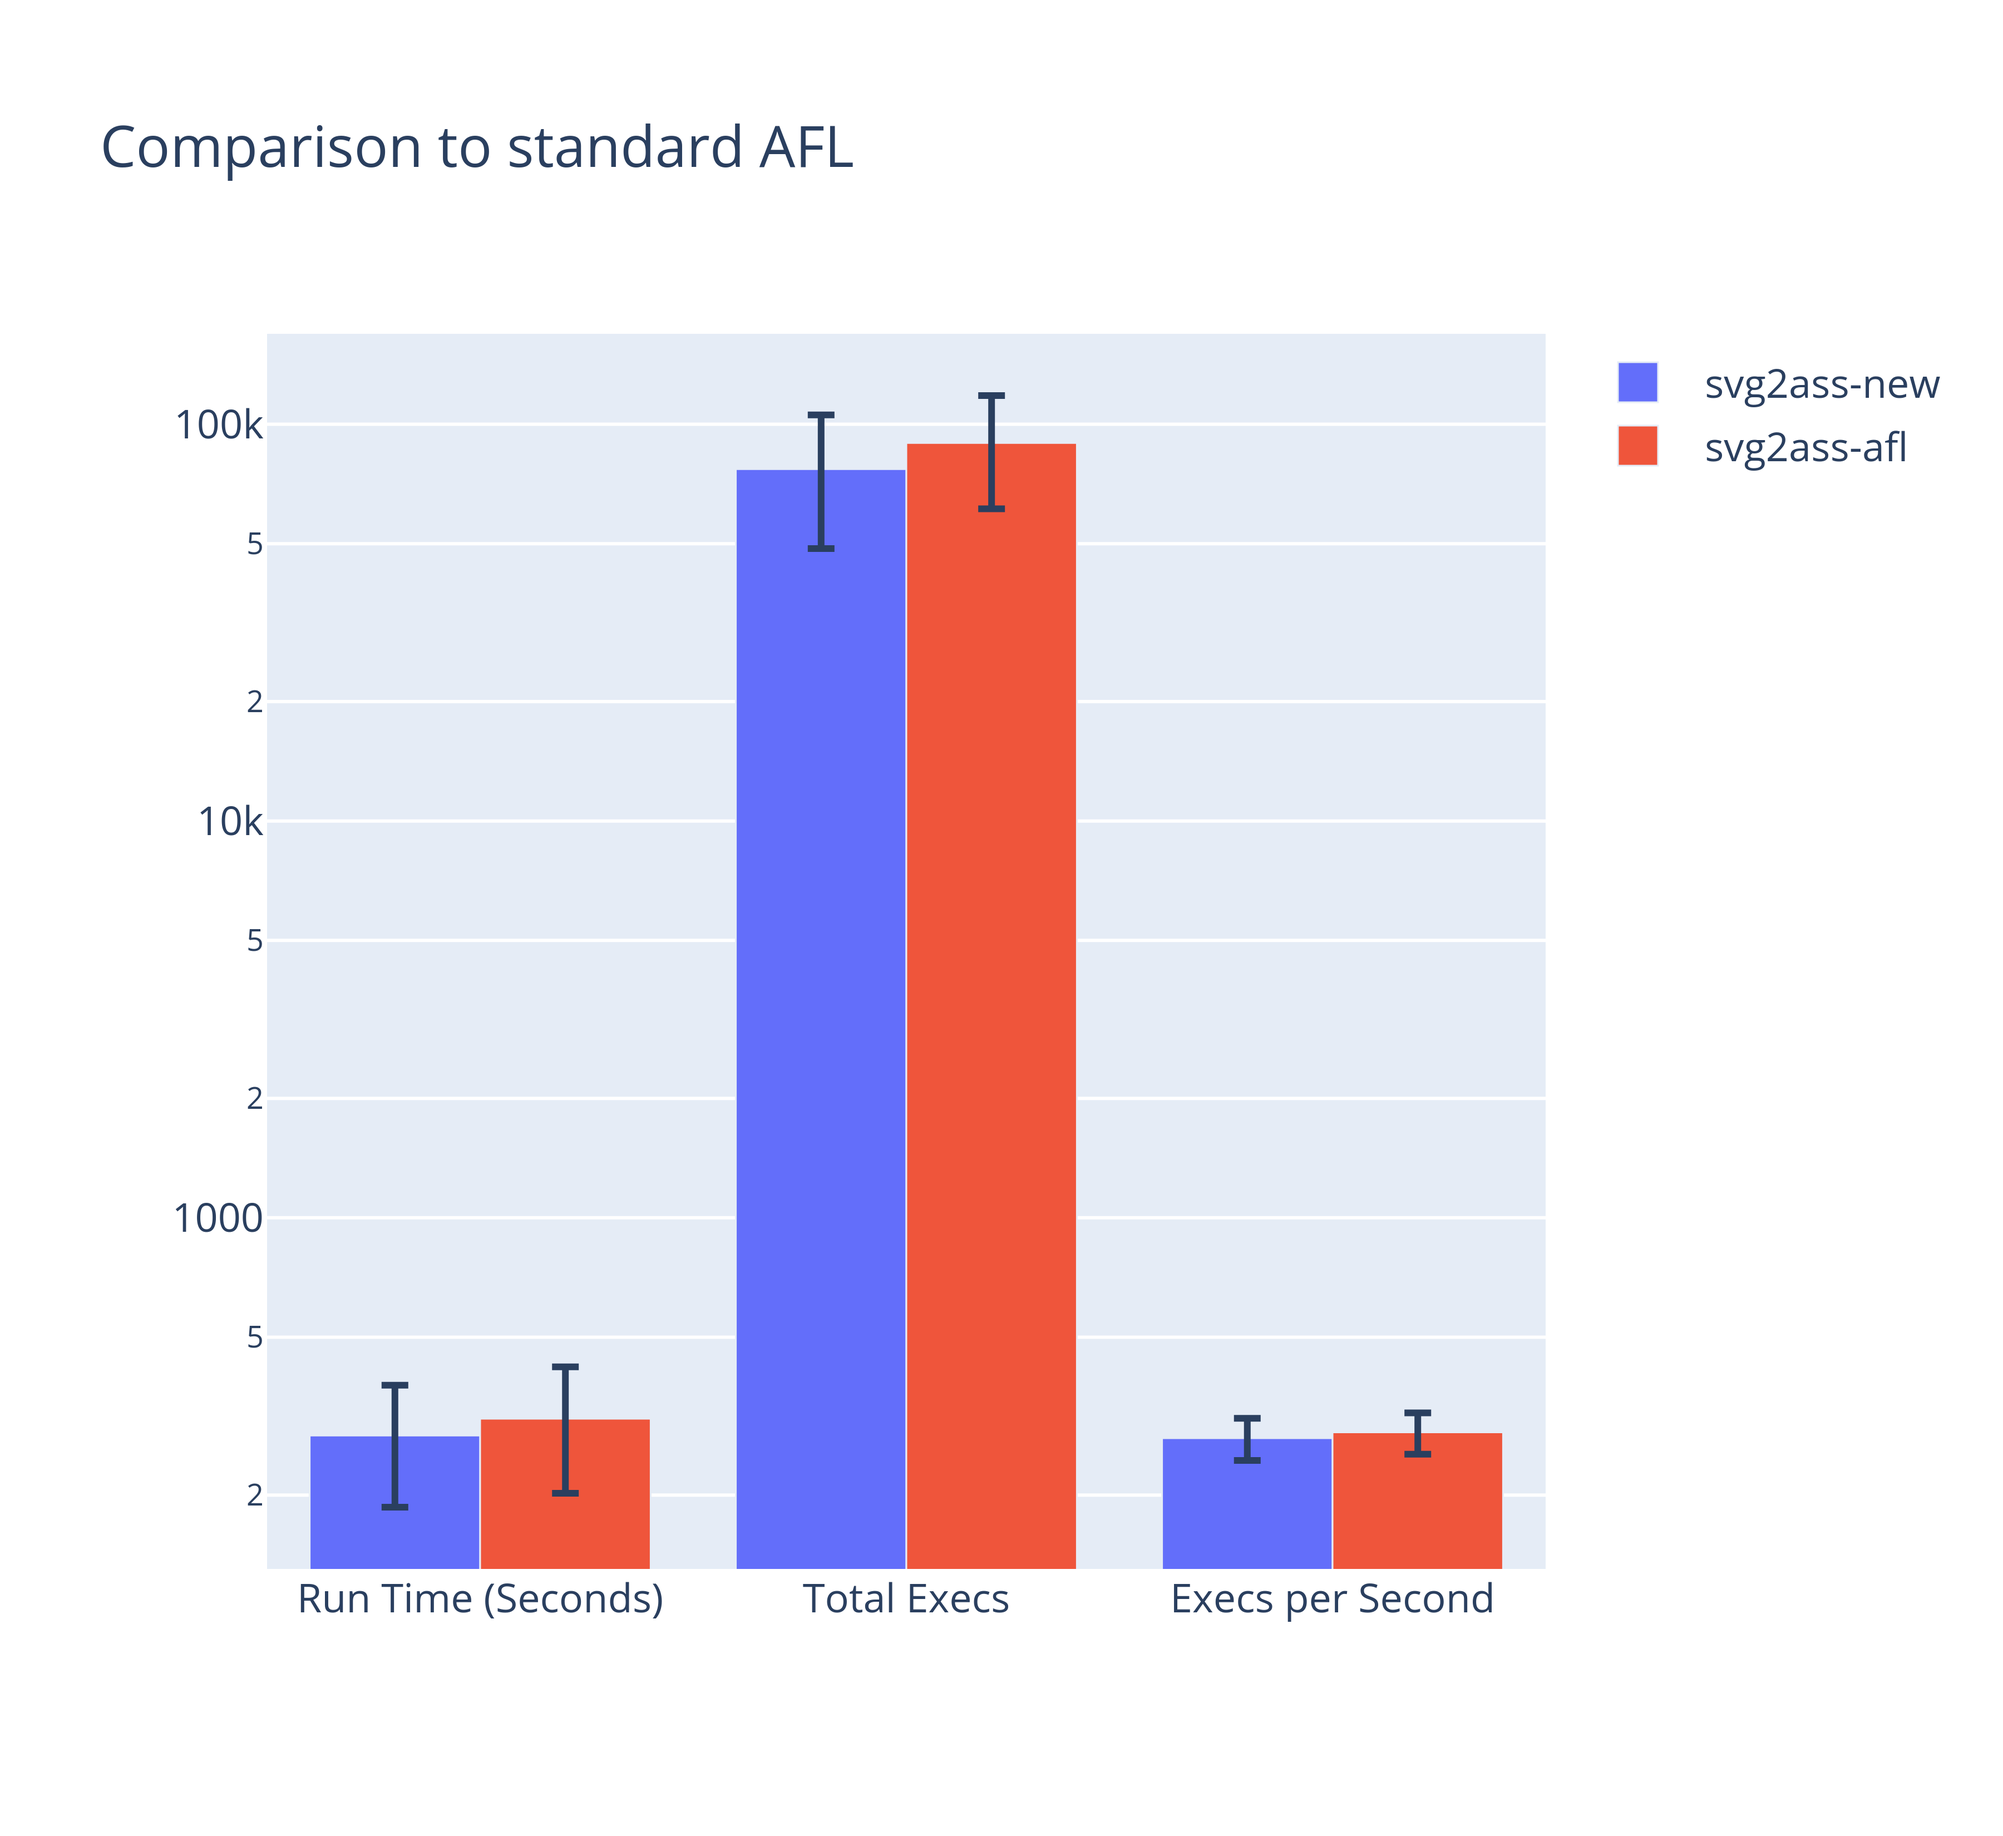
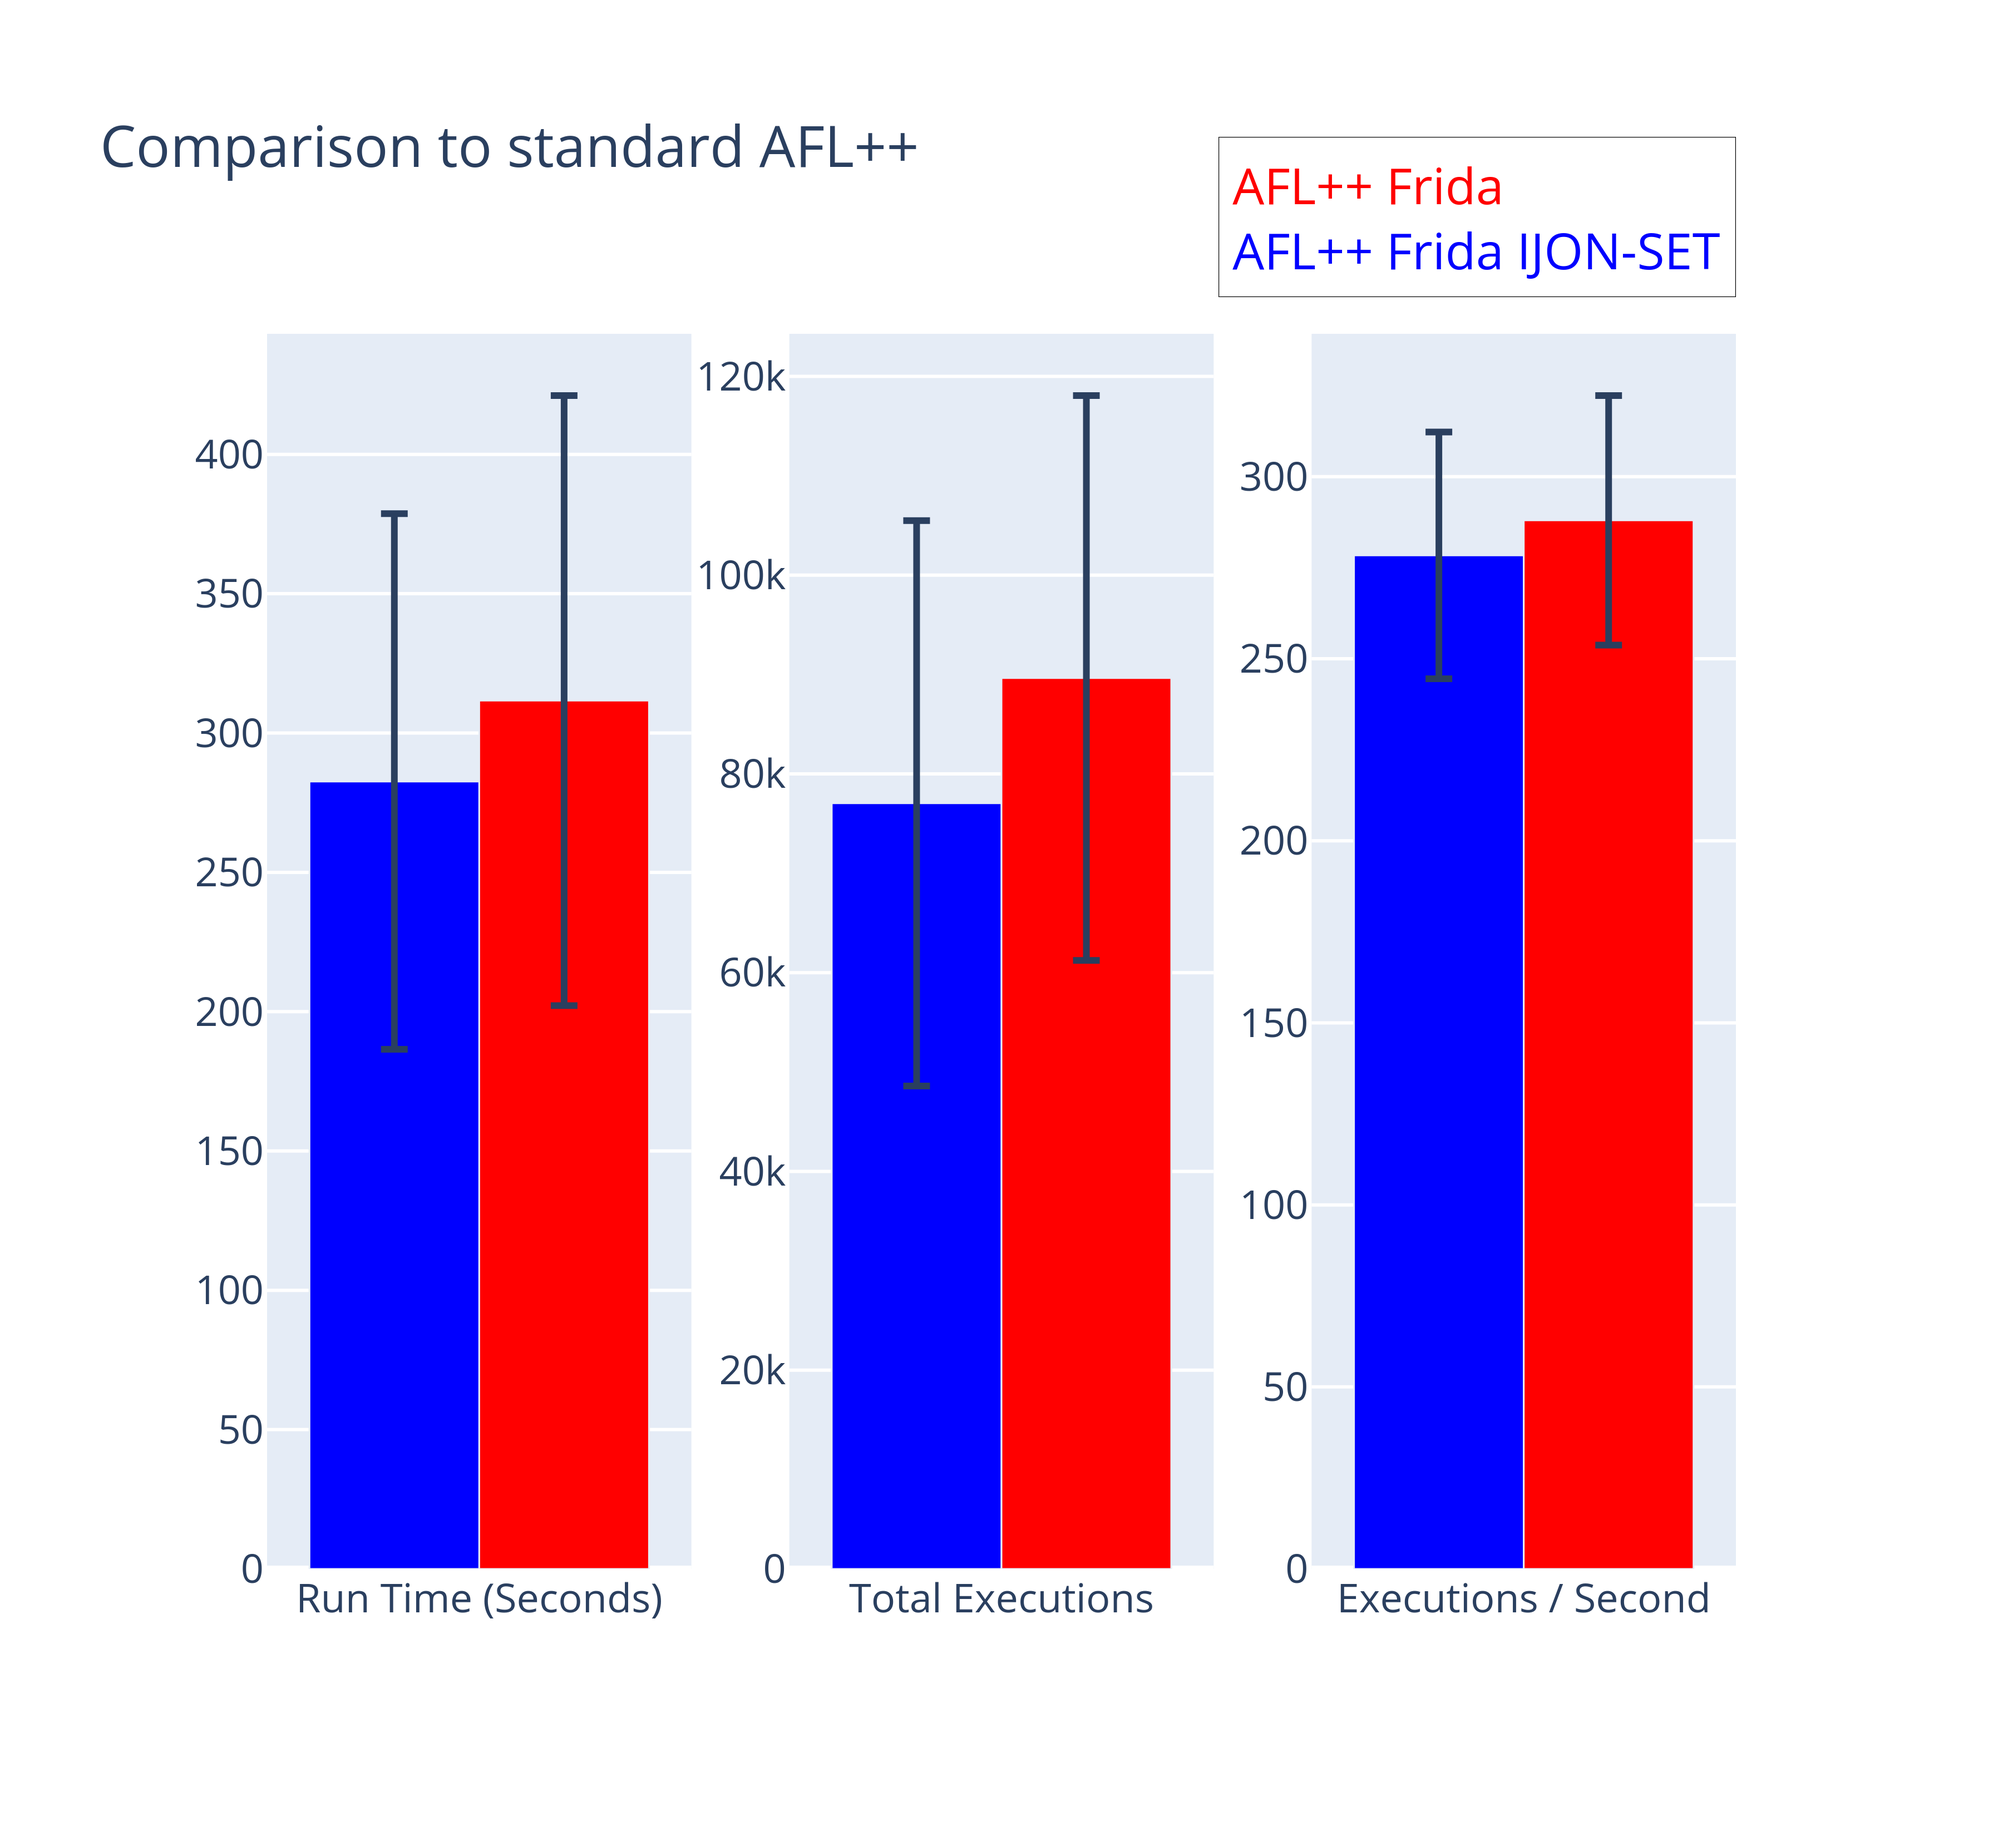
feat: updated  plot

diff --git a/plot.py b/plot.py
@@ -1,11 +1,12 @@
-#!/usr/bin/python
 
 import os
 import json
 
 import polars as pl
+#!/usr/bin/python
 import plotly.graph_objects as go
 import plotly.express as px
+from plotly.subplots import make_subplots
 import plotly.io as pio
 import numpy as np
 
@@ -179,27 +180,78 @@ def load_latest_svg_results(res_dir):
 def plot_svg2ass():
     svg_avg, svg_std, svg_len = load_latest_svg_results("./eval-svg2ass/results")
 
-    fig = go.Figure()
+    print(svg_avg)
+    # fig = go.Figure()
+
+    fig = make_subplots(rows=1, cols=3)
+
+    def get_color(type_name):
+        if 'AFL' in type_name:
+            return 'red'
+        else:
+            return 'blue'
+
+
     for i, row in svg_avg.iterrows():
         fig.add_trace(go.Bar(
-            x=['Run Time (Seconds)', 'Total Execs', 'Execs per Second'],  # X-axis labels
-            y=[row['run_time'], row['execs_done'], row['execs_per_sec']],  # Y-values
-            name=row['identifier'],  # Name of the row for legend
+            x=['Run Time (Seconds)'],
+            y=[row['run_time']],
+            marker_color=get_color(row['type']),
             error_y=dict(
                 type='data',
                 symmetric=True,
-                array=[svg_std.loc[i, 'run_time'], svg_std.loc[i, 'execs_done'], svg_std.loc[i, 'execs_per_sec']]
-            )
-        ))
+                array=[svg_std.loc[i, 'run_time']]
+            ), showlegend=False
+        ),  row=1, col=1)
+    
+    for i, row in svg_avg.iterrows():
+        fig.add_trace(go.Bar(
+            x=['Total Executions'],
+            y=[row['execs_done']],
+            marker_color=get_color(row['type']),
+            error_y=dict(
+                type='data',
+                symmetric=True,
+                array=[svg_std.loc[i, 'execs_done']]
+            ), showlegend=False
+        ),  row=1, col=2)
+    
+    for i, row in svg_avg.iterrows():
+        fig.add_trace(go.Bar(
+            x=['Executions / Second'],
+            y=[row['execs_per_sec']],
+            marker_color=get_color(row['type']),
+            error_y=dict(
+                type='data',
+                symmetric=True,
+                array=[svg_std.loc[i, 'execs_per_sec']]
+            ), showlegend=False
+        ),  row=1, col=3)
 
-    fig.update_yaxes(type="log")
+    # fig.update_yaxes(type="log")
 
-    fig.update_layout(barmode='group', title_text='Comparison to standard AFL')
+    fig.add_annotation(
+        x=1.0,  # Same position as the first legend entry
+        y=1.16,  # Different vertical position for the second legend entry
+        showarrow=False,
+        text="<span style='color:red;'>AFL++ Frida</span><br><span style='color:blue;'>AFL++ Frida IJON-SET</span>",
+        font=dict(size=15),
+        bgcolor="white",
+        bordercolor="black",
+        borderwidth=0.2,
+        borderpad=4,
+        align="left",
+        xref="paper",
+        yref="paper"
+    )
+
+
+    fig.update_layout(barmode='group', title_text='Comparison to standard AFL++')
 
     pio.write_image(fig, f"./plots/svg2ass.png",scale=6, width=600, height=550)
     # fig.show()
 
 
 if __name__ == '__main__':
-    plot_games()
+    # plot_games()
     plot_svg2ass()
